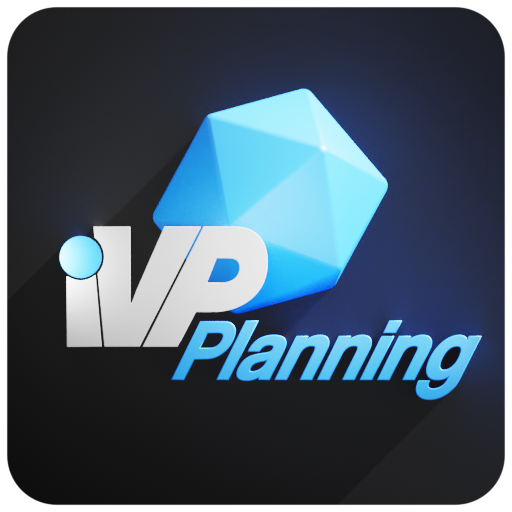
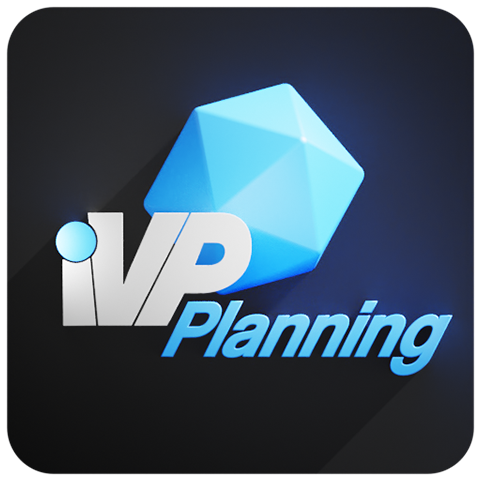
update iVP Planning main page

diff --git a/home/ivp-planning/README.md b/home/ivp-planning/README.md
@@ -1,13 +1,17 @@
 ---
 title: iVP Planning
-description: Your real-time 3D planning software for industrial production plants and facilities.
+description: Your real-time 2D/3D/VR planning software for industrial production plants and facilities.
 ---
 
-<figure><img src="../../.gitbook/assets/iVPPlanning_ns.png" alt="Logo iVP Planning"><figcaption></figcaption></figure>
+![iVP Planning](../../.gitbook/assets/planning_icon.png)
 
-iVP Planning is the core of the intelligen Virtual Platform. It enables the simple, immediate representation and visualization of your planned factory or production plant in 2D/3D and VR. The application is intuitive, visually appealing, and allows even untrained persons low-threshold access. The direct planning on-site and with the customer does not only convince by an unprecedented degree of flexibility and speed.
+iVP Planning is the core of the intelligent Virtual Platform. It offers a simple, immediate representation and visualization of your machine setups, facility concepts or production plants in 2D/3D and VR. The application is intuitive, visually appealing and enables even untrained persons low-threshold access. It allows you direct planning on-site, with the customer and impresses with an unprecedented degree of flexibility and speed.
 
-For better understanding and training we created a iVP YouTube Channel.
+The following pages will guide you through the main concepts of the software and will introduce you to some best practices and hints for effectively making use of iVP Planning to speed up your design process.
+
+## Tutorial videos
+
+In addition to our Helpdesk we set up a YouTube Channel where we regularly publish tutorials, feature demonstrations and release information.
 
 {% embed url="https://www.youtube.com/embed/videoseries?list=PLlzoGkRUR67houzn5F5ejD3R-kQrDcps5" %}
 iVP Planning Tutorial Playlist
